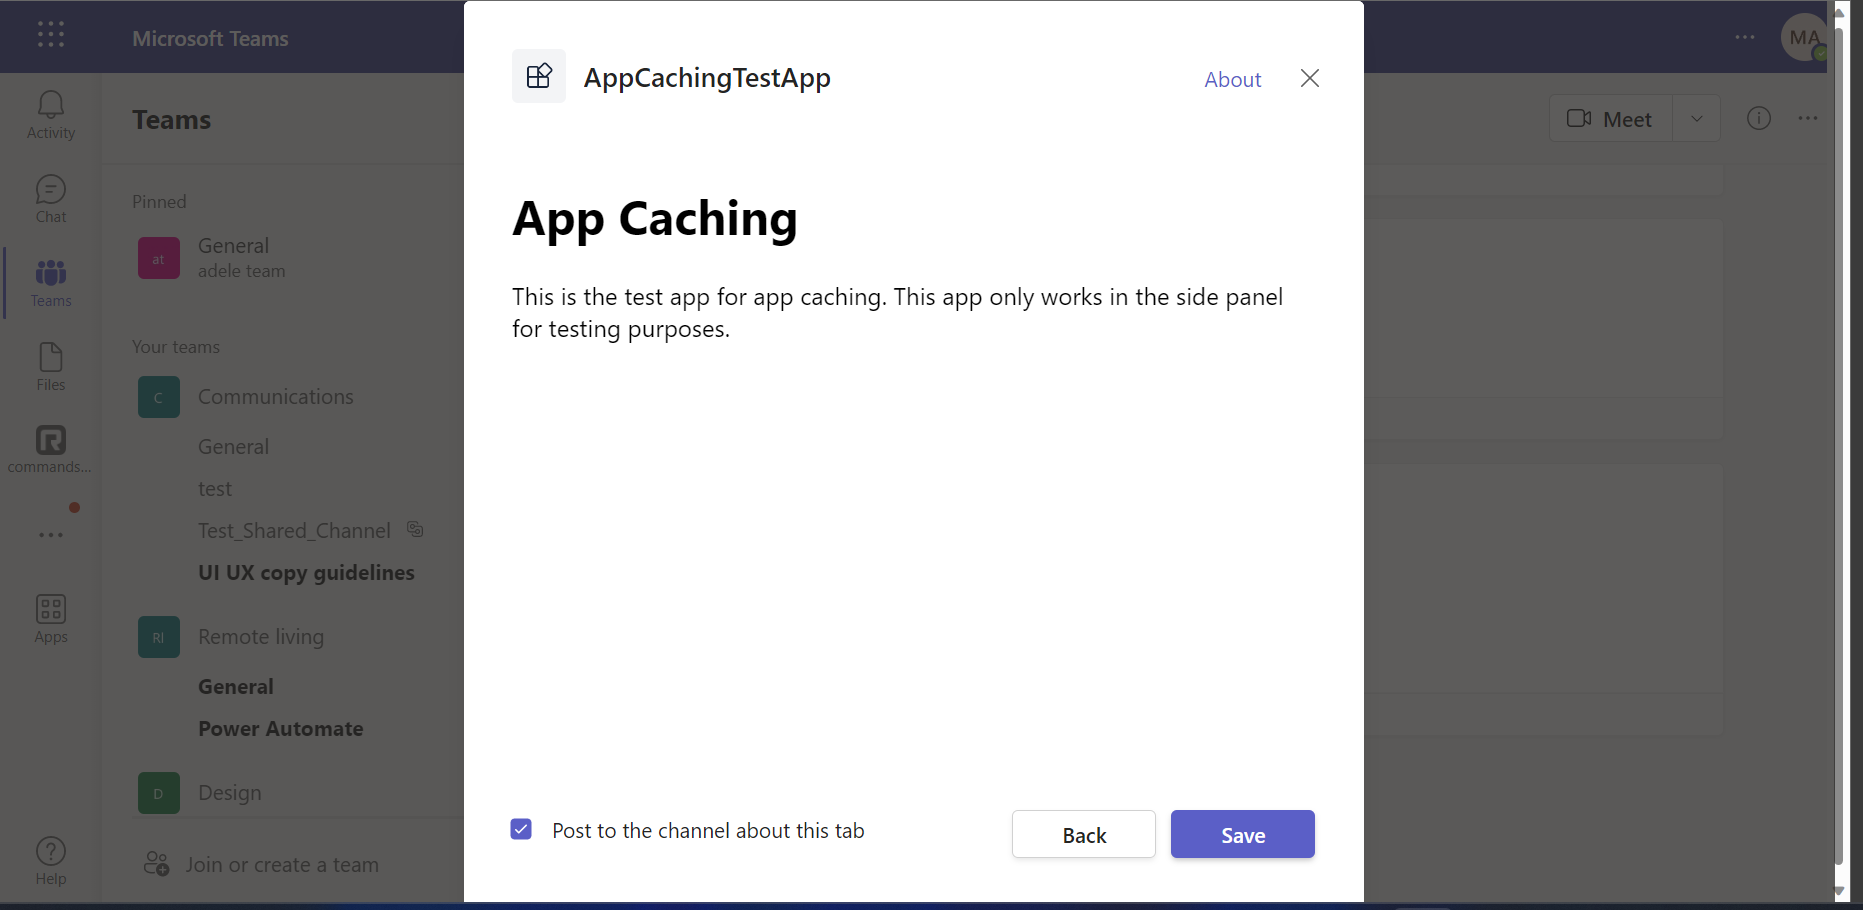
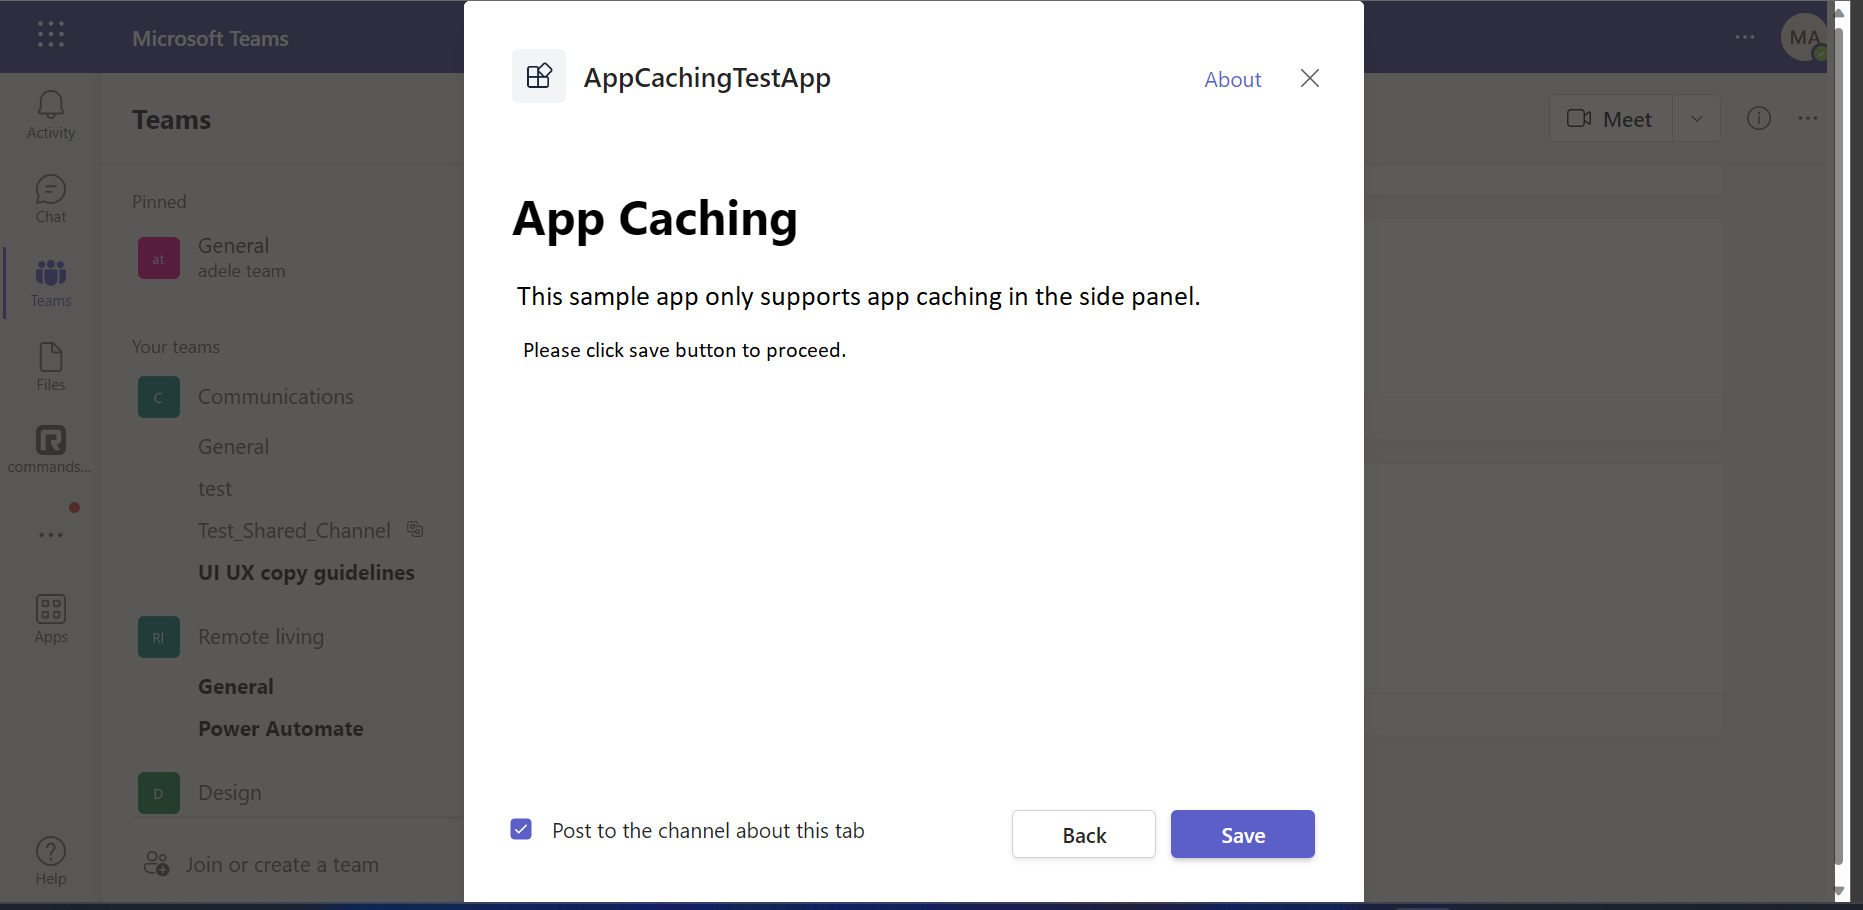
PR Comments Fixed

Changed region(s): [[0.2802, 0.3077, 0.6849, 0.4]]

diff --git a/samples/app-cache-meetings/nodejs/src/components/app-cache-tab.tsx b/samples/app-cache-meetings/nodejs/src/components/app-cache-tab.tsx
@@ -65,36 +65,33 @@ const AppCacheTab = () => {
             return;
         }
 
-        microsoftTeams.app.initialize().then(() => {
+        let app = microsoftTeams.app;
+        app.initialize().then(app.getContext).then((context) => {
 
-            microsoftTeams.app.getContext().then((context) => {
-                try {
-                    if (context.page.frameContext === "sidePanel") {
-                        const loadContext = logItem("Success", "green", "Loaded Teams context");
-                        setItems((Items) => [...Items, loadContext]);
+            if (context.page.frameContext === "sidePanel") {
+                const loadContext = logItem("Success", "green", "Loaded Teams context");
+                setItems((Items) => [...Items, loadContext]);
 
-                        const newLogItem = logItem("FrameContext", "orange", "Frame context is " + context.page.frameContext);
-                        setItems((Items) => [...Items, newLogItem]);
+                const newLogItem = logItem("FrameContext", "orange", "Frame context is " + context.page.frameContext);
+                setItems((Items) => [...Items, newLogItem]);
 
-                        microsoftTeams.teamsCore.registerBeforeUnloadHandler((readyToUnload) => {
-                            const result = beforeUnloadHandler(setItems, readyToUnload);
-                            return result;
-                        });
+                microsoftTeams.teamsCore.registerBeforeUnloadHandler((readyToUnload) => {
+                    const result = beforeUnloadHandler(setItems, readyToUnload);
+                    return result;
+                });
 
-                        microsoftTeams.teamsCore.registerOnLoadHandler((data) => {
-                            loadHandler(setItems, data);
-                            setTitle("Entity Id : " + data.entityId);
-                            console.log(data.contentUrl, data.entityId);
-                        });
+                microsoftTeams.teamsCore.registerOnLoadHandler((data) => {
+                    loadHandler(setItems, data);
+                    setTitle("Entity Id : " + data.entityId);
+                    console.log(data.contentUrl, data.entityId);
+                });
 
-                        const newItem = logItem("Handlers", "orange", "Registered load and before unload handlers. Ready for app caching.");
-                        setItems((Items) => [...Items, newItem]);
-                    }
-                }
-                catch (error) {
-                    console.log(error, "could not registered handlers");
-                }
-            });
+                const newItem = logItem("Handlers", "orange", "Registered load and before unload handlers. Ready for app caching.");
+                setItems((Items) => [...Items, newItem]);
+            }
+
+        }).catch(function (error) {
+            console.log(error, "could not register handlers");
         });
 
         return () => {

diff --git a/samples/app-cache-meetings/nodejs/src/components/configure.jsx b/samples/app-cache-meetings/nodejs/src/components/configure.jsx
@@ -4,7 +4,6 @@
 // </copyright>
 
 import { useEffect } from "react";
-import { Text } from "@fluentui/react-northstar";
 import * as microsoftTeams from "@microsoft/teams-js";
 
 // Configure page.
@@ -28,9 +27,9 @@ const Configure = props => {
     }, []);
     return (
         <div>
-            <Text size="larger" weight="semibold" content="App Caching" /><br />
-            <Text size="small" content="This sample app only supports app caching in the side panel, but the feature is available in the following contexts (Chats, Channels, Personal Apps) " weight="semibold" /><br />
-            <Text size="small" content="Please click save button to proceed." weight="semibold" />
+            <h2>App Caching</h2><br />
+            <h3>This sample app only supports app caching in the side panel.</h3><br />
+            <p>Please click save button to proceed.</p>
         </div>
     );
 };

diff --git a/samples/app-cache-meetings/nodejs/Readme.md b/samples/app-cache-meetings/nodejs/Readme.md
@@ -76,13 +76,13 @@ This sample feature is to improve the subsequent loading time of an App that the
 ![Set-Up-Tab](Images/1.Set_Up_Tab.png)
 
 **App Caching Sideloaded  :**
-![participant context](Images/2.Ready_For_App_Caching.png)
+![participant context](Images/2.TabOneInitilized.png)
 
 **AppCache in first tab with Unique Id Loaded :** 
-![Team Context](Images/4.TabOne_UniqueId.png)
+![Team Context](Images/2.TabOneInitilized.png)
 
 **AppCache in second tab with Unique Id Loaded :** 
-![Team Context](Images/5.TabTwo_UniqueId.png)
+![Team Context](Images/3.TabTwo.png)
 
 > Note open debug panel **Proto Task Manager** ( `Ctrl+Shift+Alt+8` on Windows, `Cmd+Shift+Option+8` on Mac), navigate to App Caching section you should see these apps getting cached/loaded. Non-cacheable apps will not appear in this panel.
 
